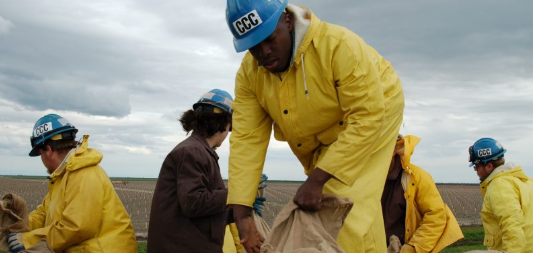
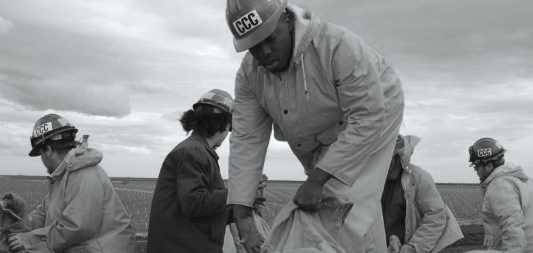
Trying photo filter

diff --git a/site/content/docs/4.3/templates/home/index.html b/site/content/docs/4.3/templates/home/index.html
@@ -214,7 +214,7 @@ title: Home example
 	<div class="row">
 		<div class="col-md-6">	
 				<div class="card">
-				  <img src="/docs/4.3/assets/img/real-id.png" class="card-img-top" alt="">
+				  <img src="/docs/4.3/assets/img/real-id.jpg" class="card-img-top" alt="">
 				  <div class="card-body">
 					    <h3 class="card-title">Need a REAL ID?</h3>
 					<p class="card-text">Fly Often? Find out more about applying for a REAL ID Driver License or ID card.</p>
@@ -224,7 +224,7 @@ title: Home example
 			</div>
 		<div class="col-md-6">	
 				<div class="card">
-				  <img src="/docs/4.3/assets/img/disaster.png" class="card-img-top" alt="">
+				  <img src="/docs/4.3/assets/img/disaster.jpg" class="card-img-top" alt="">
 				  <div class="card-body">
 					   <h3 class="card-title">Disaster Resources</h3>
 					<p class="card-text">California has been hit with devastating wildfires and other natural disasters in both the northern and southern parts of the state.</p>

diff --git a/docs/docs/4.3/templates/home/index.html b/docs/docs/4.3/templates/home/index.html
@@ -262,7 +262,7 @@
 	<div class="row">
 		<div class="col-md-6">	
 				<div class="card">
-				  <img src="/docs/4.3/assets/img/real-id.png" class="card-img-top" alt="">
+				  <img src="/docs/4.3/assets/img/real-id.jpg" class="card-img-top" alt="">
 				  <div class="card-body">
 					    <h3 class="card-title">Need a REAL ID?</h3>
 					<p class="card-text">Fly Often? Find out more about applying for a REAL ID Driver License or ID card.</p>
@@ -272,7 +272,7 @@
 			</div>
 		<div class="col-md-6">	
 				<div class="card">
-				  <img src="/docs/4.3/assets/img/disaster.png" class="card-img-top" alt="">
+				  <img src="/docs/4.3/assets/img/disaster.jpg" class="card-img-top" alt="">
 				  <div class="card-body">
 					   <h3 class="card-title">Disaster Resources</h3>
 					<p class="card-text">California has been hit with devastating wildfires and other natural disasters in both the northern and southern parts of the state.</p>
